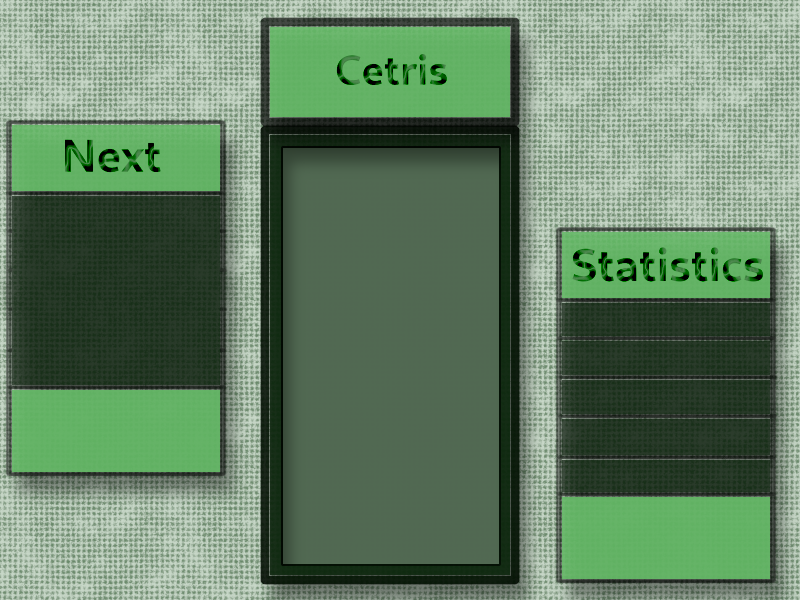
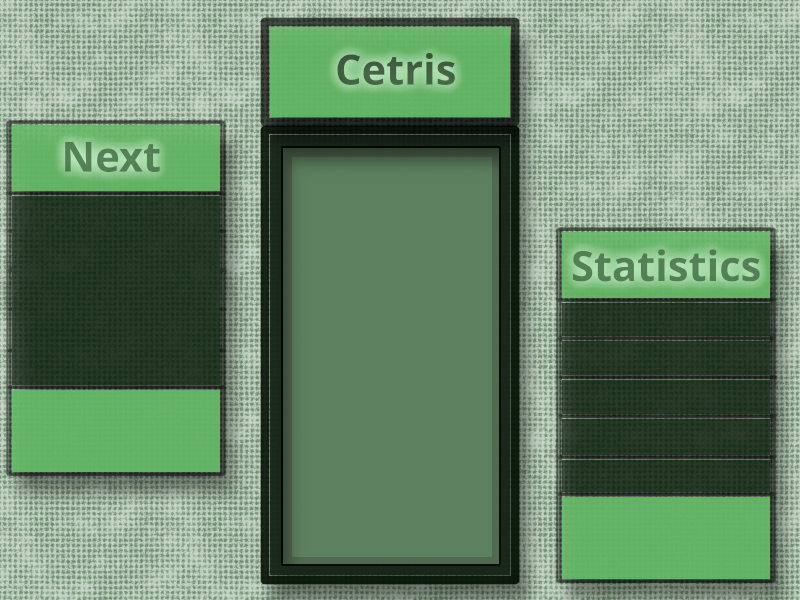
slightly updated ingame screenmask.

Changed region(s): [[0.6875, 0.39, 0.9688, 0.48], [0.4062, 0.09, 0.5938, 0.15], [0.0625, 0.21, 0.2188, 0.3]]

diff --git a/source/Includes/D_Common.h b/source/Includes/D_Common.h
@@ -40,8 +40,10 @@
 
 #define BLOCK_SIZE_PX 20
 
-#define DRAW_START_X 291
-#define DRAW_START_Y 163
+// was 291 in draft 10
+#define DRAW_START_X 292
+// was 163 in draft 10
+#define DRAW_START_Y 157
 
 #define NEXT_PIECE_X 85
 #define NEXT_PIECE_Y 250
